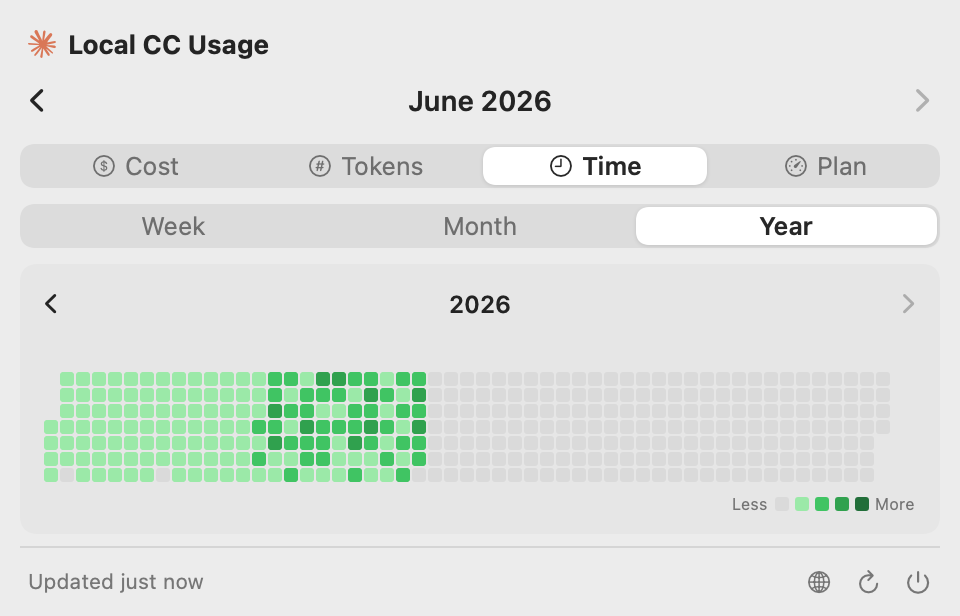
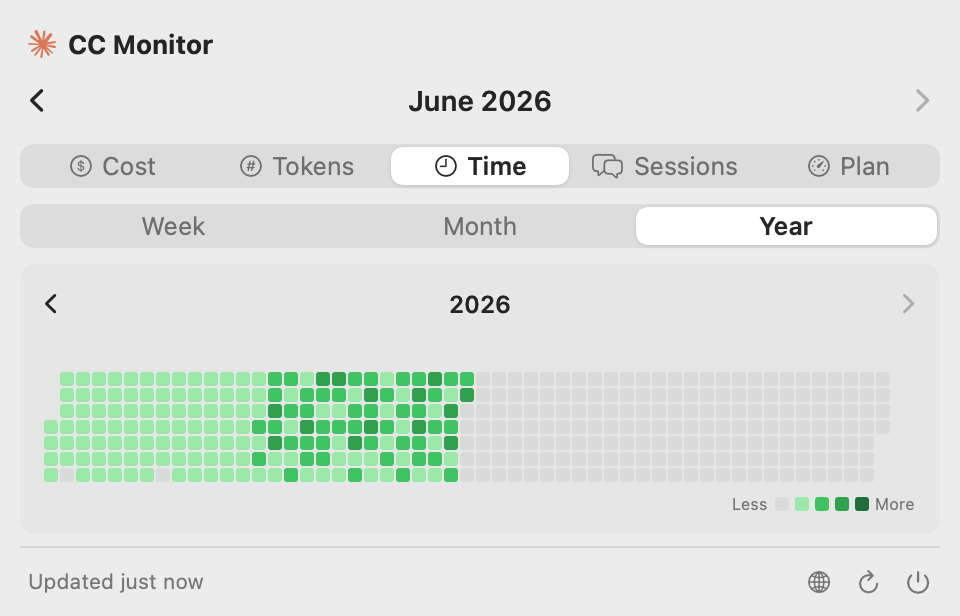
docs: Session tab screenshot + README for v2.3.0
Render the new Session tab via the real SessionTabView in the mockup
harness (six synthetic sessions across three folder groups exercising all
four status-dot colors: busy/orange, waiting/amber, done-unseen/green,
idle/grey) and add docs/session.png to the README grid. Refresh the full
screenshot set so they stay consistent.

README (EN + 中文): add the Session-monitor feature description (live list
grouped by folder, per-session status, click-to-jump Otty/Terminal/iTerm
with honest app-activate fallback, notch logo spin + attention dot) and
bump the Sources file tree/count (20 -> 24) with the four new files.

diff --git a/docs/render_mockups.swift b/docs/render_mockups.swift
@@ -117,6 +117,57 @@ func timeMock() -> (TimeData, [String:Int]) {
     return (TimeData(gapMinutes: 10, days: days), year)
 }
 
+// ── synthetic live-session data ──
+// Six demo sessions across three folder groups, exercising all four status-dot
+// colors the real SessionRow draws: busy=orange, waiting=amber, done-unseen=green,
+// idle=grey. updatedAt drives the trailing "Xm ago" + the group/row ordering.
+func sess(_ pid: Int, _ id: String, _ cwd: String, _ status: SessionStatus,
+          waitingFor: String? = nil, agoSec: Double) -> SessionInfo {
+    let now = Date().timeIntervalSince1970 * 1000
+    return SessionInfo(pid: pid, sessionId: id, cwd: cwd, status: status,
+                       waitingFor: waitingFor, startedAt: now - agoSec*1000 - 7_200_000,
+                       updatedAt: now - agoSec*1000, statusUpdatedAt: now - agoSec*1000,
+                       version: "2.3.0", kind: nil, entrypoint: "cli")
+}
+
+@MainActor
+func populateSessions(_ s: UsageStore) {
+    let ccm = "/Users/lijiakun/Developer/CCCostMonitor"
+    let mia = "/Users/lijiakun/Developer/mia"
+    let fin = "/Users/lijiakun/Developer/finance"
+    s.sessions = [
+        sess(4101, "a1aa0001-0000-0000-0000-000000000001", ccm, .busy, agoSec: 45),
+        sess(4102, "a1aa0002-0000-0000-0000-000000000002", ccm, .idle, agoSec: 6*60),
+        sess(4201, "b2bb0001-0000-0000-0000-000000000001", fin, .waiting,
+             waitingFor: "input needed", agoSec: 3*60),
+        sess(4202, "b2bb0002-0000-0000-0000-000000000002", fin, .idle, agoSec: 52*60),
+        sess(4301, "c3cc0001-0000-0000-0000-000000000001", mia, .idle, agoSec: 11*60),
+        sess(4302, "c3cc0002-0000-0000-0000-000000000002", mia, .idle, agoSec: 2*3600),
+    ]
+    s.sessionLabels = [ccm: "CCCostMonitor", mia: "mia", fin: "finance"]
+    s.sessionTitles = [
+        "a1aa0001-0000-0000-0000-000000000001": "Add notch display mode",
+        "a1aa0002-0000-0000-0000-000000000002": "Polish the segmented control",
+        "b2bb0001-0000-0000-0000-000000000001": "Personal finance allocation",
+        "b2bb0002-0000-0000-0000-000000000002": "Attachment styles",
+        "c3cc0001-0000-0000-0000-000000000001": "Calorie recognition pipeline",
+        "c3cc0002-0000-0000-0000-000000000002": "Layered DB research",
+    ]
+    s.sessionInstructions = [
+        "a1aa0001-0000-0000-0000-000000000001": "Add a Session tab between Time and Plan",
+        "a1aa0002-0000-0000-0000-000000000002": "Replace the native Picker with a self-drawn segmented control",
+        "b2bb0001-0000-0000-0000-000000000001": "Merge into screen 9; compute current vs target by amount and flag every over-allocated bucket",
+        "b2bb0002-0000-0000-0000-000000000002": "Add a blog post to the wiki",
+        "c3cc0001-0000-0000-0000-000000000001": "Rewrite the overview to the legacy MySQL schema",
+        "c3cc0002-0000-0000-0000-000000000002": "Open a workflow to review the final report",
+    ]
+    // Two finished-unseen rows → green dots (one per group): the CCCostMonitor
+    // idle session and the mia calorie-pipeline session.
+    s.sessionDoneUnseen = ["a1aa0002-0000-0000-0000-000000000002",
+                           "c3cc0001-0000-0000-0000-000000000001"]
+    s.anySessionDoneUnseen = true
+}
+
 @MainActor
 func makeStore(tab: DisplayTab, range: TimeRange = .week) -> UsageStore {
     let s = UsageStore()
@@ -144,6 +195,7 @@ func makeStore(tab: DisplayTab, range: TimeRange = .week) -> UsageStore {
         five_hour: OAuthUsageWindow(utilization: 62, resets_at: nil),
         seven_day: OAuthUsageWindow(utilization: 38, resets_at: nil),
         extra_usage: nil, seven_day_sonnet: OAuthUsageWindow(utilization: 81, resets_at: nil))
+    populateSessions(s)
     return s
 }
 
@@ -268,7 +320,7 @@ struct DemoPopover: View {
     /// In the notch we use the app's REAL custom segmented control (pure SwiftUI, so it
     /// rasterizes); the menu-bar shots keep the native-look SegmentedBar replica.
     var notch: Bool = false
-    private var visibleTabs: [DisplayTab] { [.cost, .tokens, .time, .subscription] }
+    private var visibleTabs: [DisplayTab] { [.cost, .tokens, .time, .session, .subscription] }
 
     var body: some View {
         VStack(spacing: 0) {
@@ -316,7 +368,7 @@ struct DemoPopover: View {
             }
             .padding(.horizontal, 14).padding(.vertical, 10)
         }
-        .frame(width: store.selectedTab == .time ? 480 : 360)
+        .frame(width: (store.selectedTab == .time || store.selectedTab == .session) ? 480 : 360)
         .background(bg)
         .environment(\.localizer, loc)
     }
@@ -324,6 +376,13 @@ struct DemoPopover: View {
     @ViewBuilder private var content: some View {
         if store.selectedTab == .time {
             DemoTimeTab(store: store, loc: loc)
+        } else if store.selectedTab == .session {
+            // The REAL SessionTabView/SessionGroupSection/SessionRow — pure SwiftUI
+            // (VStack/HStack/Circle/Text/Image). The interaction modifiers (onHover/
+            // onTapGesture/onDisappear) attach recognizers but don't run at render
+            // time, so ImageRenderer rasterizes it cleanly with no native-view trap.
+            SessionTabView(store: store)
+                .environment(\.localizer, loc)
         } else if store.selectedTab == .subscription {
             SubscriptionView(store: store)
         } else {
@@ -424,6 +483,7 @@ struct RenderApp {
         render("time-week", DemoPopover(store: makeStore(tab: .time, range: .week), loc: loc))
         render("time-month", DemoPopover(store: makeStore(tab: .time, range: .month), loc: loc))
         render("time-year", DemoPopover(store: makeStore(tab: .time, range: .year), loc: loc))
+        render("session", DemoPopover(store: makeStore(tab: .session), loc: loc))
         render("notch", DemoNotch(store: makeStore(tab: .cost), loc: loc))
     }
 }

diff --git a/README.md b/README.md
@@ -13,6 +13,9 @@
     <td align="center"><img src="docs/time-month.png" width="250" alt="Time — month view"/><br/><sub><b>Time · Month</b> — one row per week of the month</sub></td>
     <td align="center"><img src="docs/time-year.png" width="250" alt="Time — year heatmap"/><br/><sub><b>Time · Year</b> — GitHub-style activity heatmap</sub></td>
   </tr>
+  <tr>
+    <td align="center" colspan="3"><img src="docs/session.png" width="360" alt="Session tab"/><br/><sub><b>Sessions</b> — live Claude Code sessions grouped by folder, click to jump to its terminal</sub></td>
+  </tr>
 </table>
 
 <sub>Screenshots are rendered from the app's real SwiftUI views (<code>docs/render_mockups.swift</code>) with synthetic demo data — no real usage.</sub>
@@ -54,6 +57,7 @@ This app reads all your local session data and puts it in one place. One menu ba
   - **Week** — an Apple-Health-sleep-style timeline (Mon–Sun × 0–24h), each active block colored by the model in use
   - **Month** — the same timeline, one row per week of the month
   - **Year** — a GitHub-style activity heatmap
+- **Sessions** — a live list of your running Claude Code sessions, grouped by folder. Each row shows a status dot (working / waiting for input / just-finished / idle), the session's title, and its latest prompt. **Click a row to jump straight to that session's terminal window** — pinpointing the exact pane/tab for Otty, Terminal and iTerm, with an honest *bring-the-app-forward* fallback elsewhere. The notch logo **spins while any session is working** and shows an attention dot (amber = waiting, green = just finished) until you look
 - **Subscription quota** (Pro / Max) — dedicated tab showing how much is *left* in the 5-hour, 7-day and 7-day Sonnet windows, with reset countdowns. Live from Anthropic's official usage endpoint — the same source Claude Code's `/usage` uses
 - **Today / This Week / This Month** — token distribution by type (input, output, cache read, cache write)
 - **Daily bar chart** — hover for details
@@ -124,7 +128,7 @@ The **Subscription** tab is separate: it calls Anthropic's OAuth usage endpoint 
 No Xcode project — the app is compiled with plain `swiftc`. `Package.swift` exists only so `swift test` can run.
 
 ```
-Sources/                    ← 20 Swift files
+Sources/                    ← 24 Swift files
   main.swift                  ← entry point (single-instance check + bootstrap)
   AppDelegate.swift           ← menu bar item + title, popover, refresh timers, FSEvents watcher
   UsageStore.swift            ← published state + refresh orchestration
@@ -134,12 +138,16 @@ Sources/                    ← 20 Swift files
   Views.swift                 ← UI (popover, charts)
   NotchController.swift       ← notch panels: geometry, lifecycle, hover/fullscreen
   NotchView.swift             ← notch SwiftUI layer (compact pill ↔ popover)
+  SessionMonitor.swift        ← watches ~/.claude/sessions: liveness, titles, done-unseen
+  SessionJumper.swift         ← click-to-jump: focuses a session's terminal pane/tab
+  AITitleReader.swift         ← tail-reads a transcript for its ai-title + latest prompt
   ClaudeLogo.swift            ← shared Claude-logo path (menu bar, popover, app icon)
   Formatters.swift            ← number formatting
   Localization.swift          ← i18n strings
   Models.swift                ← app-only OAuth/quota data models
   Core_*.swift                ← pure Foundation-only logic, unit-tested
-                                (usage parsing, dates, model classes, Time-tab math)
+                                (usage parsing, dates, model classes, Time-tab math,
+                                 live-session decode/group/done-unseen)
 Tests/CCCostCoreTests/      ← swift-testing unit tests for the Core_* files
 Package.swift               ← test harness ONLY (app builds via swiftc)
 Resources/analyze_usage.py  ← bundled Python analysis script
@@ -195,6 +203,7 @@ Claude Code 的 `/cost` 只显示当前会话。如果你有多个 Anthropic 账
   - **周视图** — 类似 Apple 健康「睡眠」的时间轴（周一~周日 × 0–24h），每段活跃色块按当时所用模型着色
   - **月视图** — 同样的时间轴，每行是该月的一周
   - **年视图** — GitHub 风格的活跃度热力图
+- **会话（Sessions）** — 实时列出正在运行的 Claude Code 会话，按文件夹分组。每行显示状态点（处理中 / 等待输入 / 刚完成 / 空闲）、会话标题和最近一条指令。**点击任意一行即可跳转到该会话所在的终端窗口** —— Otty、Terminal、iTerm 能精确定位到具体的 pane/标签页，其它终端则诚实地回退为「把 app 切到前台」。只要有会话在处理，刘海里的 logo 会**持续旋转**，并显示一个提醒圆点（琥珀=等待，绿色=刚完成），直到你查看为止
 - **订阅剩余用量**（Pro / Max）— 独立 tab，查看 5 小时 / 7 天 / 7 天 Sonnet 窗口**还剩多少**及重置倒计时。数据来自 Anthropic 官方用量接口 —— 与 Claude Code `/usage` 同源
 - **今日 / 本周 / 本月** — 按类型拆分 token（输入、输出、缓存读、缓存写）
 - **每日柱状图** — 悬浮查看详情
@@ -263,7 +272,7 @@ open build/CCCostMonitor.app
 不依赖 Xcode 项目 —— app 直接用 `swiftc` 编译。`Package.swift` 仅用于跑 `swift test`。
 
 ```
-Sources/                    ← 20 个 Swift 文件
+Sources/                    ← 24 个 Swift 文件
   main.swift                  ← 入口（单实例检测 + 启动引导）
   AppDelegate.swift           ← 菜单栏图标与标题、弹窗、刷新定时器、FSEvents 监听
   UsageStore.swift            ← 状态发布 + 刷新编排
@@ -273,12 +282,16 @@ Sources/                    ← 20 个 Swift 文件
   Views.swift                 ← UI（弹窗、图表）
   NotchController.swift       ← 刘海面板：几何、生命周期、hover/全屏
   NotchView.swift             ← 刘海 SwiftUI 层（小条 ↔ 弹窗）
+  SessionMonitor.swift        ← 监听 ~/.claude/sessions：存活检测、标题、done-unseen
+  SessionJumper.swift         ← 点击跳转：聚焦会话所在的终端 pane/标签页
+  AITitleReader.swift         ← 尾读 transcript 取 ai-title + 最新指令
   ClaudeLogo.swift            ← 共享 Claude logo 路径（菜单栏、弹窗、app 图标）
   Formatters.swift            ← 数字格式化
   Localization.swift          ← 多语言文案
   Models.swift                ← 仅供 app 使用的 OAuth/配额数据模型
   Core_*.swift                ← 纯 Foundation 逻辑，有单元测试
-                                （用量解析、日期、模型分类、Time tab 计算）
+                                （用量解析、日期、模型分类、Time tab 计算、
+                                 实时会话解码/分组/done-unseen）
 Tests/CCCostCoreTests/      ← swift-testing 单元测试（针对 Core_* 文件）
 Package.swift               ← 仅作测试 harness（app 仍用 swiftc 构建）
 Resources/analyze_usage.py  ← 内置 Python 分析脚本
